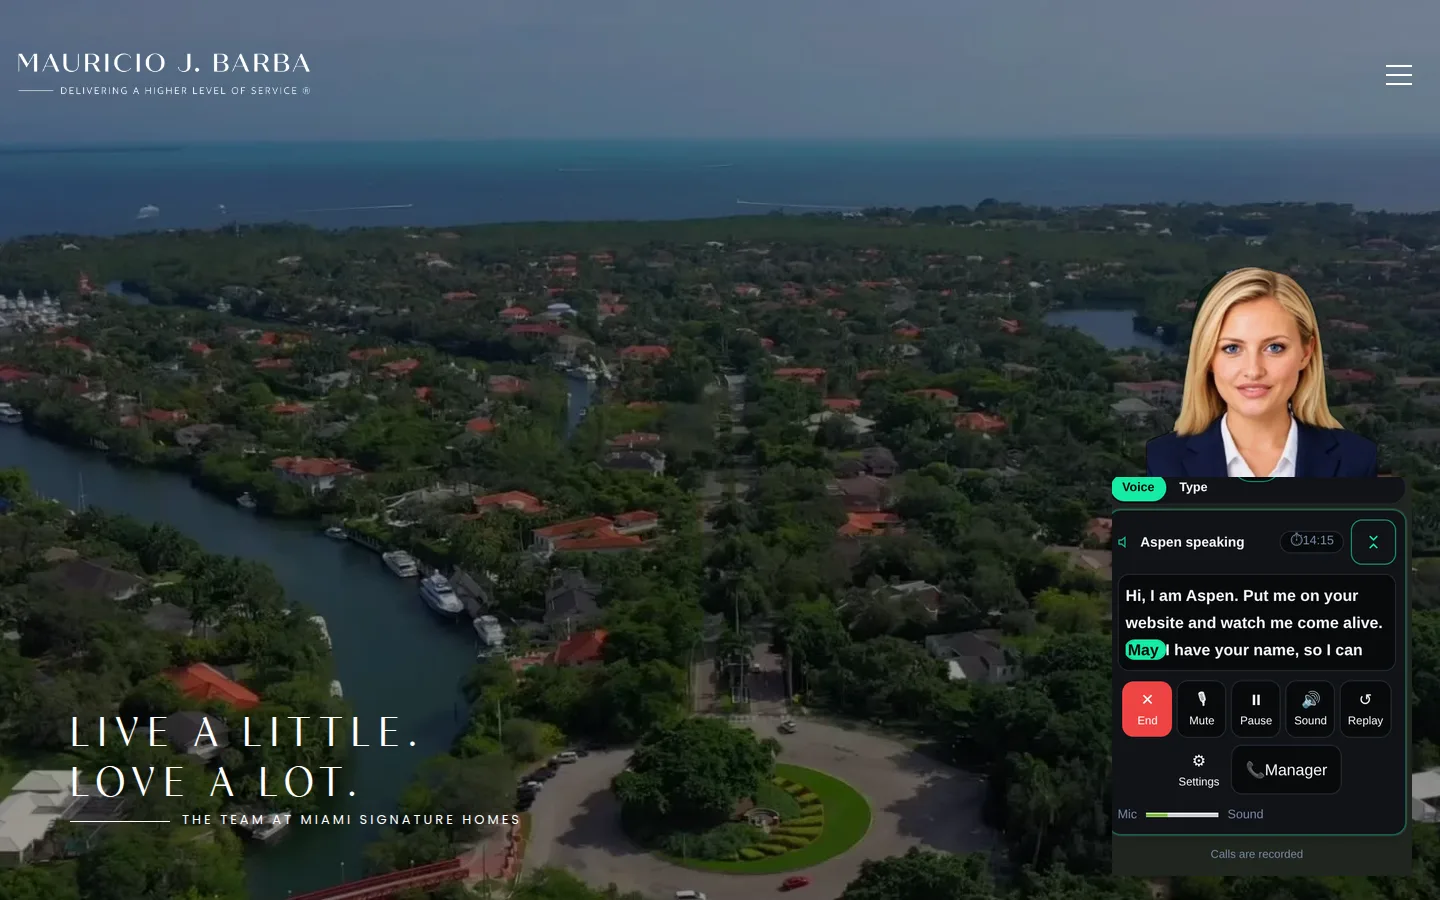
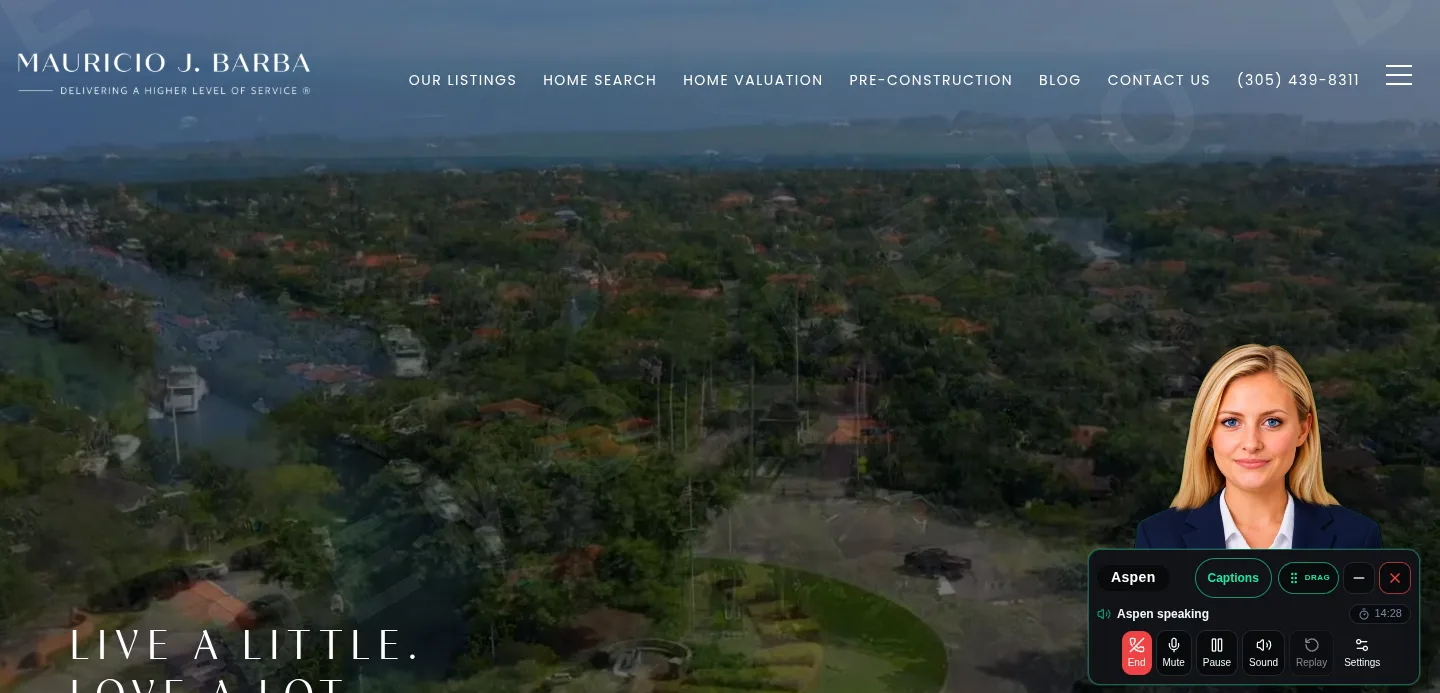
Gallery rebuild: every realtor card shows desktop + mobile captures (2026-11-15 re-shoot set), both views clickable inside the one demo button; header line: demos can be viewed on a mobile phone, desktop, or tablet

diff --git a/src/components/landing/AgentLandingTemplate.tsx b/src/components/landing/AgentLandingTemplate.tsx
@@ -69,12 +69,28 @@ import exampleThumbRayMiramontes from "@/assets/realtor-example-ray-miramontes.w
 import exampleThumbDanielleLazier from "@/assets/realtor-example-danielle-lazier.webp";
 import exampleThumbRichardSteinberg from "@/assets/realtor-example-richard-steinberg.webp";
 import exampleThumbGianSexsmith from "@/assets/realtor-example-gian-sexsmith.webp";
+import exampleThumbMobileAureliaPerez from "@/assets/realtor-example-aurelia-perez-mobile.webp";
+import exampleThumbMobileAnnChamberlain from "@/assets/realtor-example-ann-chamberlain-mobile.webp";
+import exampleThumbMobileJulieMelrose from "@/assets/realtor-example-julie-melrose-mobile.webp";
+import exampleThumbMobileAshleyCusack from "@/assets/realtor-example-ashley-cusack-mobile.webp";
+import exampleThumbMobileMauricioBarba from "@/assets/realtor-example-mauricio-barba-mobile.webp";
+import exampleThumbMobileMichaelMartinez from "@/assets/realtor-example-michael-martinez-mobile.webp";
+import exampleThumbMobileJeanLucAndriot from "@/assets/realtor-example-jean-luc-andriot-mobile.webp";
+import exampleThumbMobilePaulSaperstein from "@/assets/realtor-example-paul-saperstein-mobile.webp";
+import exampleThumbMobileBaldemarDeLeon from "@/assets/realtor-example-baldemar-deleon-mobile.webp";
+import exampleThumbMobileLoganWalter from "@/assets/realtor-example-logan-walter-mobile.webp";
+import exampleThumbMobileRayMiramontes from "@/assets/realtor-example-ray-miramontes-mobile.webp";
+import exampleThumbMobileDanielleLazier from "@/assets/realtor-example-danielle-lazier-mobile.webp";
+import exampleThumbMobileRichardSteinberg from "@/assets/realtor-example-richard-steinberg-mobile.webp";
+import exampleThumbMobileGianSexsmith from "@/assets/realtor-example-gian-sexsmith-mobile.webp";
 import type { AgentVertical } from "@/data/agentVerticals";
 
-// Example-grid thumbnails (Batch 2, 2026-11-12): one per demo example,
-// keyed by the option's slug in the vertical data. Each image is a real
-// capture of that agent's own website with Aspen open on it (see
-// batch2-build-report-2026-11-12.md for how they were produced).
+// Example-grid thumbnails (Batch 2, 2026-11-12; refreshed by the
+// 2026-11-15 gallery re-shoot): one per demo example, keyed by the
+// option's slug in the vertical data. Each image is a real capture of
+// that agent's own website with Aspen open on it (see
+// batch2-build-report-2026-11-12.md for how the first set was
+// produced, and the 2026-11-15 re-shoot records for the current set).
 const EXAMPLE_THUMBNAILS: Record<string, string> = {
   "aurelia-perez": exampleThumbAureliaPerez,
   "ann-chamberlain": exampleThumbAnnChamberlain,
@@ -90,6 +106,28 @@ const EXAMPLE_THUMBNAILS: Record<string, string> = {
   "danielle-lazier": exampleThumbDanielleLazier,
   "richard-steinberg": exampleThumbRichardSteinberg,
   "gian-sexsmith": exampleThumbGianSexsmith,
+};
+
+// Mobile companions to EXAMPLE_THUMBNAILS (gallery rebuild,
+// 2026-11-15): the same live capture session on a phone viewport, so
+// each card can show the desktop and mobile views side by side. Same
+// provenance rule — real captures of the agent's own website with the
+// presenter open on it, never redrawn.
+const EXAMPLE_THUMBNAILS_MOBILE: Record<string, string> = {
+  "aurelia-perez": exampleThumbMobileAureliaPerez,
+  "ann-chamberlain": exampleThumbMobileAnnChamberlain,
+  "julie-melrose": exampleThumbMobileJulieMelrose,
+  "ashley-cusack": exampleThumbMobileAshleyCusack,
+  "mauricio-barba": exampleThumbMobileMauricioBarba,
+  "michael-martinez": exampleThumbMobileMichaelMartinez,
+  "jean-luc-andriot": exampleThumbMobileJeanLucAndriot,
+  "paul-saperstein": exampleThumbMobilePaulSaperstein,
+  "baldemar-deleon": exampleThumbMobileBaldemarDeLeon,
+  "logan-walter": exampleThumbMobileLoganWalter,
+  "ray-miramontes": exampleThumbMobileRayMiramontes,
+  "danielle-lazier": exampleThumbMobileDanielleLazier,
+  "richard-steinberg": exampleThumbMobileRichardSteinberg,
+  "gian-sexsmith": exampleThumbMobileGianSexsmith,
 };
 
 /**
@@ -720,13 +758,16 @@ const AgentLandingTemplate = ({ vertical }: { vertical: AgentVertical }) => {
         </div>
       </section>
 
-      {/* Examples grid (Batch 2, 2026-11-12) — directly below the hero
-          demo form: what Aspen looks like answering on real agents'
-          websites. Honest framing: these are example simulations, NOT
-          customers. The frame shows two rows at a time; the rest scroll
-          INSIDE the frame so the page never grows a 14-card strip.
-          Clicking a card runs the live demo on that site immediately —
-          the same /demo sample handoff as the hero dropdown. */}
+      {/* Examples grid (Batch 2, 2026-11-12; rebuilt 2026-11-15) —
+          directly below the hero demo form: what Aspen looks like
+          answering on real agents' websites. Honest framing: these
+          are example simulations, NOT customers. The frame shows two
+          rows at a time; the rest scroll INSIDE the frame so the page
+          never grows a 14-card strip. Each card shows BOTH captures —
+          desktop and mobile — and clicking either view (the whole
+          card is one button) runs the live demo on that site
+          immediately, the same /demo sample handoff as the hero
+          dropdown. */}
       {vertical.demoExamples && (
         <section
           data-agent-example-grid
@@ -742,6 +783,10 @@ const AgentLandingTemplate = ({ vertical }: { vertical: AgentVertical }) => {
                 our customers — each with Aspen answering on it. Click any
                 one and the demo starts live on that site. On your site,
                 she leads with your listings first.
+              </p>
+              <p className="text-muted-foreground text-base sm:text-lg mt-3">
+                The demos can be viewed on a mobile phone, desktop, or
+                tablet — every card shows the desktop and phone views.
               </p>
             </div>
             <div className="max-w-5xl mx-auto rounded-2xl border border-border bg-card p-3 sm:p-4">
@@ -759,12 +804,20 @@ const AgentLandingTemplate = ({ vertical }: { vertical: AgentVertical }) => {
                       aria-label={`Run the live demo on ${option.agent}'s website`}
                       className="group block w-full text-left rounded-xl border border-border bg-background overflow-hidden shadow-sm transition-colors hover:border-primary/60 focus-visible:outline-none focus-visible:ring-2 focus-visible:ring-ring focus-visible:ring-offset-2"
                     >
-                      <img
-                        src={EXAMPLE_THUMBNAILS[option.slug]}
-                        alt={`${option.agent}'s website with Aspen answering on it`}
-                        loading="lazy"
-                        className="aspect-[16/10] w-full object-cover object-top"
-                      />
+                      <span className="flex items-stretch gap-2 p-2 pb-0">
+                        <img
+                          src={EXAMPLE_THUMBNAILS[option.slug]}
+                          alt={`${option.agent}'s website with Aspen answering on it — desktop view`}
+                          loading="lazy"
+                          className="aspect-[16/10] min-w-0 flex-1 rounded-lg object-cover object-top"
+                        />
+                        <img
+                          src={EXAMPLE_THUMBNAILS_MOBILE[option.slug]}
+                          alt={`${option.agent}'s website with Aspen answering on it — mobile view`}
+                          loading="lazy"
+                          className="w-[23%] shrink-0 rounded-lg object-cover object-top"
+                        />
+                      </span>
                       <span className="flex items-center justify-between gap-2 px-3 py-2.5">
                         <span className="min-w-0">
                           <span className="block truncate text-sm font-semibold text-foreground">
